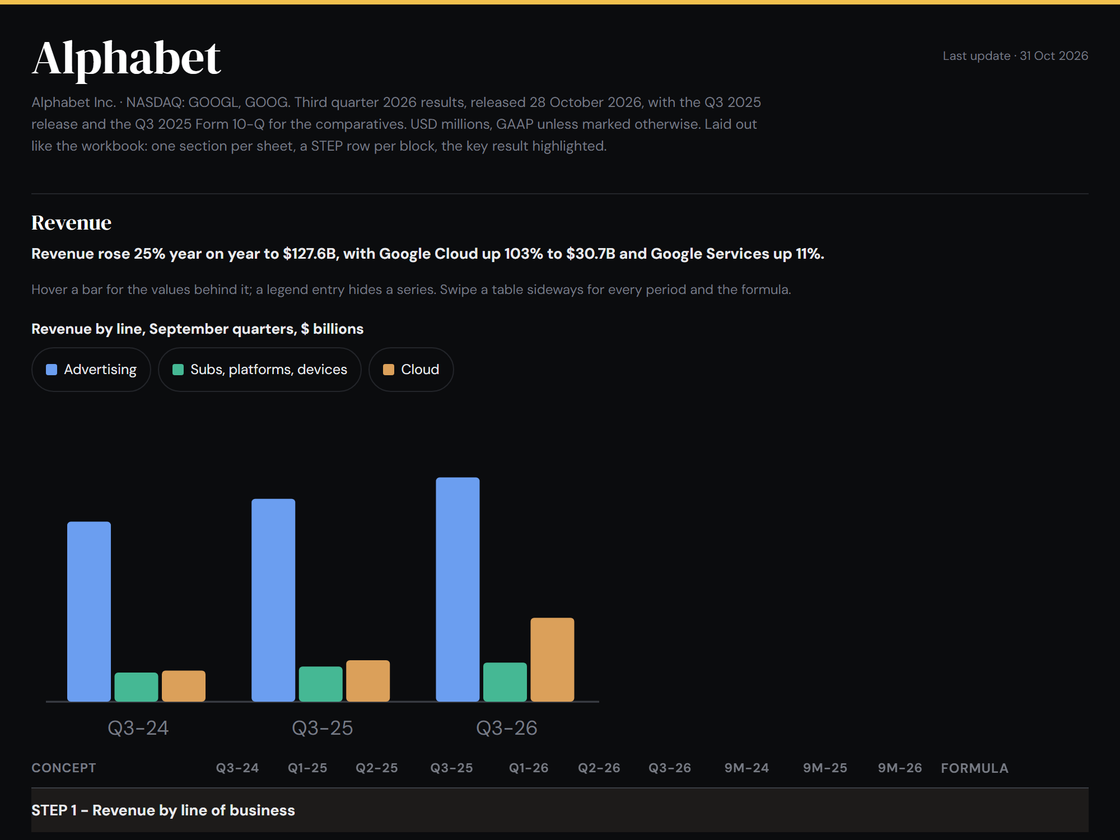
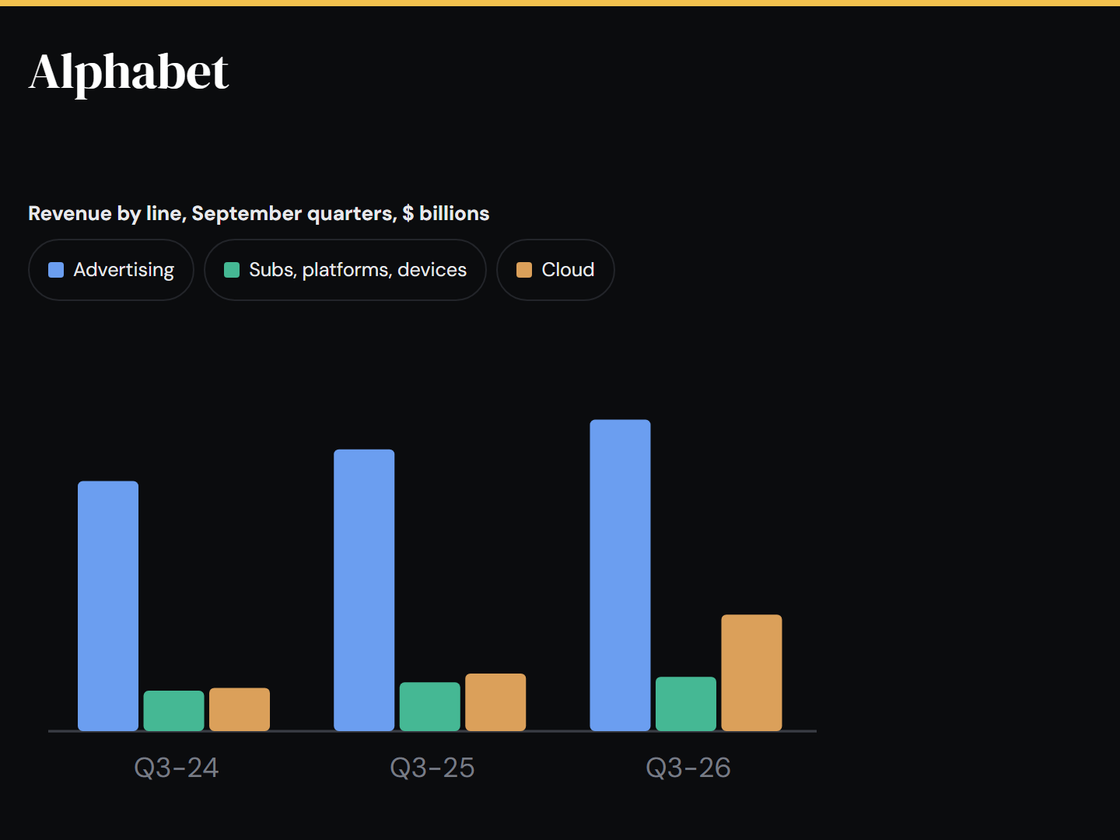
06-11

diff --git a/Alphabet/index.html b/Alphabet/index.html
@@ -49,7 +49,16 @@ a{color:inherit}
 /* "Last update": small and quiet in the top right corner, on the back link's line */
 .band .in{position:relative}
 .updated{position:absolute;top:0;right:max(18px,env(safe-area-inset-right));min-height:44px;
-  display:flex;align-items:center;font-size:11px;color:var(--muted);white-space:nowrap}
+  display:flex;align-items:center;gap:4px;font-size:11px;color:var(--muted);white-space:nowrap}
+/* the two icons after the date: Excel downloads the workbook, GitHub opens the code */
+.ic{display:inline-flex;align-items:center;gap:6px;height:44px;padding:0 8px;border-radius:8px;
+  color:var(--ink2);text-decoration:none;font-size:12px;font-weight:700}
+.ic:first-of-type{margin-left:8px}
+.ic svg{width:20px;height:20px;display:block;flex:none}
+.ic.gh svg{fill:var(--ink2)}
+.ic:hover,.ic:focus-visible{background:var(--hl)}
+.ic:hover,.ic:focus-visible{color:var(--accent)}
+.ic.gh:hover svg,.ic.gh:focus-visible svg{fill:var(--accent)}
 h1{margin:6px 0 2px;color:#fff;font-size:clamp(32px,4.4vw,42px);line-height:1.1}   /* the company name carries the page, and it is what the homepage card preview shows */
 .meta{margin:8px 0 0;font-size:12.5px;color:var(--muted);max-width:78ch}
 
@@ -125,10 +134,12 @@ svg.hov .mk.on{opacity:1}
 .tw{overflow-x:auto;-webkit-overflow-scrolling:touch}
 table{width:100%;border-collapse:collapse;font-size:13.5px;font-variant-numeric:tabular-nums}
 th{text-align:right;font-weight:600;color:var(--muted);font-size:11.5px;text-transform:uppercase;
-  letter-spacing:.04em;border-bottom:1px solid var(--axis);padding:8px;white-space:nowrap}
-td{text-align:right;padding:7px 8px;border-bottom:1px solid var(--grid);white-space:nowrap}
+  letter-spacing:.04em;border-bottom:1px solid var(--axis);padding:9px 16px;white-space:nowrap}
+td{text-align:right;padding:9px 16px;border-bottom:1px solid var(--grid);white-space:nowrap}
+/* a faint line between columns, so each cell reads as its own, as in a spreadsheet */
+td+td,th+th{border-left:1px solid var(--grid)}
 th:first-child,td:first-child{text-align:left;position:sticky;left:0;background:var(--page);padding-left:0}
-td:first-child{white-space:normal;min-width:150px}
+td:first-child{white-space:nowrap;min-width:150px}   /* as in Excel: the column takes its longest label, every row one line */
 tr.b td{font-weight:700;color:#fff}
 tr.sub td{font-weight:700;color:var(--ink2);padding-top:14px;border-bottom:none;background:var(--page)}
 tbody tr:not(.sub):hover td,td.xcol{background:var(--hl)}
@@ -140,7 +151,7 @@ tr.step td{color:var(--ink);background:var(--step);padding-top:9px;padding-botto
 tr.step td{position:static}
 tr.step td>span{position:sticky;left:0;display:inline-block;background:var(--step);padding-right:8px}
 tr.k td{font-weight:700;color:#fff;background:var(--key)}
-th.fx,td.fx{text-align:left;color:var(--muted);font-size:12px;white-space:normal;min-width:160px}
+th.fx,td.fx{text-align:left;color:var(--muted);font-size:12px;white-space:nowrap;min-width:160px}
 td.fx,tr.k td.fx,tr.b td.fx{font-style:italic;font-weight:400;color:var(--muted)}   /* the formula stays quiet, even on a key row */
 .basis{color:var(--muted);font-size:11.5px;font-weight:400}
 
@@ -159,16 +170,20 @@ footer a:hover{color:var(--accent)}
 }
 @media (max-width:640px){
   .two,.gloss{grid-template-columns:1fr;gap:18px}
-  th,td{padding:7px 6px;font-size:12.5px}
+  th,td{padding:8px 10px;font-size:12.5px}
+  /* on a phone the corner (date, Excel, GitHub) takes its own line under the back link, so nothing overlaps */
+  .updated{position:static;margin:-6px 0 0 -8px}
+  .updated .lu{display:inline}
   th{white-space:normal}
-  td:first-child{min-width:120px}
+  /* on a phone the pinned label column may wrap: one-line labels would cover most of a 360px screen */
+  td:first-child{min-width:120px;white-space:normal;max-width:170px}
 }
 
 :root{--accent:#f2c14e}</style>
 </head><body>
 <header class="band"><div class="in">
 <a class="back" href="../index.html">&larr; All companies</a>
-<span class="updated">Last update &middot;&nbsp;<span data-static="1">31 Oct 2026</span></span>
+<span class="updated"><span class="lu">Last update &middot;&nbsp;</span><span data-static="1">31 Oct 2026</span><a class="ic xl" href="alphabet.xlsx" download aria-label="Download the Excel workbook" title="Download the Excel workbook"><svg viewBox="0 0 24 24" aria-hidden="true"><rect x="2" y="2" width="20" height="20" rx="4" fill="#107c41"/><path d="M7.6 7h2.7l1.7 3.1L13.7 7h2.7l-3 5 3.1 5h-2.7l-1.8-3.2-1.8 3.2H7.5l3.1-5z" fill="#fff"/></svg><span>Excel</span></a><a class="ic gh" href="https://github.com/ManuCem/Equity-Research-Lab" aria-label="View the code on GitHub" title="View the code on GitHub"><svg viewBox="0 0 16 16" aria-hidden="true"><path d="M8 0C3.58 0 0 3.58 0 8c0 3.54 2.29 6.53 5.47 7.59.4.07.55-.17.55-.38 0-.19-.01-.82-.01-1.49-2.01.37-2.53-.49-2.69-.94-.09-.23-.48-.94-.82-1.13-.28-.15-.68-.52-.01-.53.63-.01 1.08.58 1.23.82.72 1.21 1.87.87 2.33.66.07-.52.28-.87.51-1.07-1.78-.2-3.64-.89-3.64-3.95 0-.87.31-1.59.82-2.15-.08-.2-.36-1.02.08-2.12 0 0 .67-.21 2.2.82.64-.18 1.32-.27 2-.27.68 0 1.36.09 2 .27 1.53-1.04 2.2-.82 2.2-.82.44 1.1.16 1.92.08 2.12.51.56.82 1.27.82 2.15 0 3.07-1.87 3.75-3.65 3.95.29.25.54.73.54 1.48 0 1.07-.01 1.93-.01 2.2 0 .21.15.46.55.38A8.013 8.013 0 0016 8c0-4.42-3.58-8-8-8z"/></svg><span>GitHub</span></a></span>
 <h1>Alphabet</h1>
 <p class="meta">Alphabet Inc. &middot; NASDAQ: GOOGL, GOOG. Third quarter 2026 results, released <span data-static="1">28 October 2026</span>,
 with the Q3 2025 release and the Q3 2025 Form 10-Q for the comparatives. USD millions, GAAP unless marked otherwise.

diff --git a/SpaceX/index.html b/SpaceX/index.html
@@ -49,7 +49,16 @@ a{color:inherit}
 /* "Last update": small and quiet in the top right corner, on the back link's line */
 .band .in{position:relative}
 .updated{position:absolute;top:0;right:max(18px,env(safe-area-inset-right));min-height:44px;
-  display:flex;align-items:center;font-size:11px;color:var(--muted);white-space:nowrap}
+  display:flex;align-items:center;gap:4px;font-size:11px;color:var(--muted);white-space:nowrap}
+/* the two icons after the date: Excel downloads the workbook, GitHub opens the code */
+.ic{display:inline-flex;align-items:center;gap:6px;height:44px;padding:0 8px;border-radius:8px;
+  color:var(--ink2);text-decoration:none;font-size:12px;font-weight:700}
+.ic:first-of-type{margin-left:8px}
+.ic svg{width:20px;height:20px;display:block;flex:none}
+.ic.gh svg{fill:var(--ink2)}
+.ic:hover,.ic:focus-visible{background:var(--hl)}
+.ic:hover,.ic:focus-visible{color:var(--accent)}
+.ic.gh:hover svg,.ic.gh:focus-visible svg{fill:var(--accent)}
 h1{margin:6px 0 2px;color:#fff;font-size:clamp(32px,4.4vw,42px);line-height:1.1}   /* the company name carries the page, and it is what the homepage card preview shows */
 .meta{margin:8px 0 0;font-size:12.5px;color:var(--muted);max-width:78ch}
 
@@ -125,10 +134,12 @@ svg.hov .mk.on{opacity:1}
 .tw{overflow-x:auto;-webkit-overflow-scrolling:touch}
 table{width:100%;border-collapse:collapse;font-size:13.5px;font-variant-numeric:tabular-nums}
 th{text-align:right;font-weight:600;color:var(--muted);font-size:11.5px;text-transform:uppercase;
-  letter-spacing:.04em;border-bottom:1px solid var(--axis);padding:8px;white-space:nowrap}
-td{text-align:right;padding:7px 8px;border-bottom:1px solid var(--grid);white-space:nowrap}
+  letter-spacing:.04em;border-bottom:1px solid var(--axis);padding:9px 16px;white-space:nowrap}
+td{text-align:right;padding:9px 16px;border-bottom:1px solid var(--grid);white-space:nowrap}
+/* a faint line between columns, so each cell reads as its own, as in a spreadsheet */
+td+td,th+th{border-left:1px solid var(--grid)}
 th:first-child,td:first-child{text-align:left;position:sticky;left:0;background:var(--page);padding-left:0}
-td:first-child{white-space:normal;min-width:150px}
+td:first-child{white-space:nowrap;min-width:150px}   /* as in Excel: the column takes its longest label, every row one line */
 tr.b td{font-weight:700;color:#fff}
 tr.sub td{font-weight:700;color:var(--ink2);padding-top:14px;border-bottom:none;background:var(--page)}
 tbody tr:not(.sub):hover td,td.xcol{background:var(--hl)}
@@ -140,7 +151,7 @@ tr.step td{color:var(--ink);background:var(--step);padding-top:9px;padding-botto
 tr.step td{position:static}
 tr.step td>span{position:sticky;left:0;display:inline-block;background:var(--step);padding-right:8px}
 tr.k td{font-weight:700;color:#fff;background:var(--key)}
-th.fx,td.fx{text-align:left;color:var(--muted);font-size:12px;white-space:normal;min-width:160px}
+th.fx,td.fx{text-align:left;color:var(--muted);font-size:12px;white-space:nowrap;min-width:160px}
 td.fx,tr.k td.fx,tr.b td.fx{font-style:italic;font-weight:400;color:var(--muted)}   /* the formula stays quiet, even on a key row */
 .basis{color:var(--muted);font-size:11.5px;font-weight:400}
 
@@ -159,16 +170,20 @@ footer a:hover{color:var(--accent)}
 }
 @media (max-width:640px){
   .two,.gloss{grid-template-columns:1fr;gap:18px}
-  th,td{padding:7px 6px;font-size:12.5px}
+  th,td{padding:8px 10px;font-size:12.5px}
+  /* on a phone the corner (date, Excel, GitHub) takes its own line under the back link, so nothing overlaps */
+  .updated{position:static;margin:-6px 0 0 -8px}
+  .updated .lu{display:inline}
   th{white-space:normal}
-  td:first-child{min-width:120px}
+  /* on a phone the pinned label column may wrap: one-line labels would cover most of a 360px screen */
+  td:first-child{min-width:120px;white-space:normal;max-width:170px}
 }
 
 :root{--accent:#82b6f8}</style>
 </head><body>
 <header class="band"><div class="in">
 <a class="back" href="../index.html">&larr; All companies</a>
-<span class="updated">Last update &middot;&nbsp;<span data-static="1">28 Oct 2026</span></span>
+<span class="updated"><span class="lu">Last update &middot;&nbsp;</span><span data-static="1">28 Oct 2026</span><a class="ic xl" href="spacex.xlsx" download aria-label="Download the Excel workbook" title="Download the Excel workbook"><svg viewBox="0 0 24 24" aria-hidden="true"><rect x="2" y="2" width="20" height="20" rx="4" fill="#107c41"/><path d="M7.6 7h2.7l1.7 3.1L13.7 7h2.7l-3 5 3.1 5h-2.7l-1.8-3.2-1.8 3.2H7.5l3.1-5z" fill="#fff"/></svg><span>Excel</span></a><a class="ic gh" href="https://github.com/ManuCem/Equity-Research-Lab" aria-label="View the code on GitHub" title="View the code on GitHub"><svg viewBox="0 0 16 16" aria-hidden="true"><path d="M8 0C3.58 0 0 3.58 0 8c0 3.54 2.29 6.53 5.47 7.59.4.07.55-.17.55-.38 0-.19-.01-.82-.01-1.49-2.01.37-2.53-.49-2.69-.94-.09-.23-.48-.94-.82-1.13-.28-.15-.68-.52-.01-.53.63-.01 1.08.58 1.23.82.72 1.21 1.87.87 2.33.66.07-.52.28-.87.51-1.07-1.78-.2-3.64-.89-3.64-3.95 0-.87.31-1.59.82-2.15-.08-.2-.36-1.02.08-2.12 0 0 .67-.21 2.2.82.64-.18 1.32-.27 2-.27.68 0 1.36.09 2 .27 1.53-1.04 2.2-.82 2.2-.82.44 1.1.16 1.92.08 2.12.51.56.82 1.27.82 2.15 0 3.07-1.87 3.75-3.65 3.95.29.25.54.73.54 1.48 0 1.07-.01 1.93-.01 2.2 0 .21.15.46.55.38A8.013 8.013 0 0016 8c0-4.42-3.58-8-8-8z"/></svg><span>GitHub</span></a></span>
 <h1>SpaceX</h1>
 <p class="meta">Space Exploration Technologies Corp. &middot; NASDAQ: SPCX. Form S-1 filed <span data-static="1">20 May 2026</span>, plus the
 Q2-26 and Q3-26 results releases. USD millions, GAAP unless marked non-GAAP. Laid out like the workbook: one section

diff --git a/Anthropic/index.html b/Anthropic/index.html
@@ -49,7 +49,16 @@ a{color:inherit}
 /* "Last update": small and quiet in the top right corner, on the back link's line */
 .band .in{position:relative}
 .updated{position:absolute;top:0;right:max(18px,env(safe-area-inset-right));min-height:44px;
-  display:flex;align-items:center;font-size:11px;color:var(--muted);white-space:nowrap}
+  display:flex;align-items:center;gap:4px;font-size:11px;color:var(--muted);white-space:nowrap}
+/* the two icons after the date: Excel downloads the workbook, GitHub opens the code */
+.ic{display:inline-flex;align-items:center;gap:6px;height:44px;padding:0 8px;border-radius:8px;
+  color:var(--ink2);text-decoration:none;font-size:12px;font-weight:700}
+.ic:first-of-type{margin-left:8px}
+.ic svg{width:20px;height:20px;display:block;flex:none}
+.ic.gh svg{fill:var(--ink2)}
+.ic:hover,.ic:focus-visible{background:var(--hl)}
+.ic:hover,.ic:focus-visible{color:var(--accent)}
+.ic.gh:hover svg,.ic.gh:focus-visible svg{fill:var(--accent)}
 h1{margin:6px 0 2px;color:#fff;font-size:clamp(32px,4.4vw,42px);line-height:1.1}   /* the company name carries the page, and it is what the homepage card preview shows */
 .meta{margin:8px 0 0;font-size:12.5px;color:var(--muted);max-width:78ch}
 
@@ -125,10 +134,12 @@ svg.hov .mk.on{opacity:1}
 .tw{overflow-x:auto;-webkit-overflow-scrolling:touch}
 table{width:100%;border-collapse:collapse;font-size:13.5px;font-variant-numeric:tabular-nums}
 th{text-align:right;font-weight:600;color:var(--muted);font-size:11.5px;text-transform:uppercase;
-  letter-spacing:.04em;border-bottom:1px solid var(--axis);padding:8px;white-space:nowrap}
-td{text-align:right;padding:7px 8px;border-bottom:1px solid var(--grid);white-space:nowrap}
+  letter-spacing:.04em;border-bottom:1px solid var(--axis);padding:9px 16px;white-space:nowrap}
+td{text-align:right;padding:9px 16px;border-bottom:1px solid var(--grid);white-space:nowrap}
+/* a faint line between columns, so each cell reads as its own, as in a spreadsheet */
+td+td,th+th{border-left:1px solid var(--grid)}
 th:first-child,td:first-child{text-align:left;position:sticky;left:0;background:var(--page);padding-left:0}
-td:first-child{white-space:normal;min-width:150px}
+td:first-child{white-space:nowrap;min-width:150px}   /* as in Excel: the column takes its longest label, every row one line */
 tr.b td{font-weight:700;color:#fff}
 tr.sub td{font-weight:700;color:var(--ink2);padding-top:14px;border-bottom:none;background:var(--page)}
 tbody tr:not(.sub):hover td,td.xcol{background:var(--hl)}
@@ -140,7 +151,7 @@ tr.step td{color:var(--ink);background:var(--step);padding-top:9px;padding-botto
 tr.step td{position:static}
 tr.step td>span{position:sticky;left:0;display:inline-block;background:var(--step);padding-right:8px}
 tr.k td{font-weight:700;color:#fff;background:var(--key)}
-th.fx,td.fx{text-align:left;color:var(--muted);font-size:12px;white-space:normal;min-width:160px}
+th.fx,td.fx{text-align:left;color:var(--muted);font-size:12px;white-space:nowrap;min-width:160px}
 td.fx,tr.k td.fx,tr.b td.fx{font-style:italic;font-weight:400;color:var(--muted)}   /* the formula stays quiet, even on a key row */
 .basis{color:var(--muted);font-size:11.5px;font-weight:400}
 
@@ -159,15 +170,19 @@ footer a:hover{color:var(--accent)}
 }
 @media (max-width:640px){
   .two,.gloss{grid-template-columns:1fr;gap:18px}
-  th,td{padding:7px 6px;font-size:12.5px}
+  th,td{padding:8px 10px;font-size:12.5px}
+  /* on a phone the corner (date, Excel, GitHub) takes its own line under the back link, so nothing overlaps */
+  .updated{position:static;margin:-6px 0 0 -8px}
+  .updated .lu{display:inline}
   th{white-space:normal}
-  td:first-child{min-width:120px}
+  /* on a phone the pinned label column may wrap: one-line labels would cover most of a 360px screen */
+  td:first-child{min-width:120px;white-space:normal;max-width:170px}
 }
 :root{--accent:#e59873}</style>
 </head><body>
 <header class="band"><div class="in">
   <a class="back" href="../index.html">&larr; All companies</a>
-<span class="updated">Last update &middot;&nbsp;<span data-static="1">2 Nov 2026</span></span>
+<span class="updated"><span class="lu">Last update &middot;&nbsp;</span><span data-static="1">2 Nov 2026</span><a class="ic xl" href="anthropic.xlsx" download aria-label="Download the Excel workbook" title="Download the Excel workbook"><svg viewBox="0 0 24 24" aria-hidden="true"><rect x="2" y="2" width="20" height="20" rx="4" fill="#107c41"/><path d="M7.6 7h2.7l1.7 3.1L13.7 7h2.7l-3 5 3.1 5h-2.7l-1.8-3.2-1.8 3.2H7.5l3.1-5z" fill="#fff"/></svg><span>Excel</span></a><a class="ic gh" href="https://github.com/ManuCem/Equity-Research-Lab" aria-label="View the code on GitHub" title="View the code on GitHub"><svg viewBox="0 0 16 16" aria-hidden="true"><path d="M8 0C3.58 0 0 3.58 0 8c0 3.54 2.29 6.53 5.47 7.59.4.07.55-.17.55-.38 0-.19-.01-.82-.01-1.49-2.01.37-2.53-.49-2.69-.94-.09-.23-.48-.94-.82-1.13-.28-.15-.68-.52-.01-.53.63-.01 1.08.58 1.23.82.72 1.21 1.87.87 2.33.66.07-.52.28-.87.51-1.07-1.78-.2-3.64-.89-3.64-3.95 0-.87.31-1.59.82-2.15-.08-.2-.36-1.02.08-2.12 0 0 .67-.21 2.2.82.64-.18 1.32-.27 2-.27.68 0 1.36.09 2 .27 1.53-1.04 2.2-.82 2.2-.82.44 1.1.16 1.92.08 2.12.51.56.82 1.27.82 2.15 0 3.07-1.87 3.75-3.65 3.95.29.25.54.73.54 1.48 0 1.07-.01 1.93-.01 2.2 0 .21.15.46.55.38A8.013 8.013 0 0016 8c0-4.42-3.58-8-8-8z"/></svg><span>GitHub</span></a></span>
   <h1>Anthropic</h1>
   <p class="meta">Form S-1/A, Amendment No. 1, filed <span data-static="1">2 Nov 2026</span>. USD millions unless stated.
      Laid out like the workbook: one section per sheet, a STEP row per block, the key result highlighted.</p>

diff --git a/assets/report.css b/assets/report.css
@@ -43,7 +43,16 @@ a{color:inherit}
 /* "Last update": small and quiet in the top right corner, on the back link's line */
 .band .in{position:relative}
 .updated{position:absolute;top:0;right:max(18px,env(safe-area-inset-right));min-height:44px;
-  display:flex;align-items:center;font-size:11px;color:var(--muted);white-space:nowrap}
+  display:flex;align-items:center;gap:4px;font-size:11px;color:var(--muted);white-space:nowrap}
+/* the two icons after the date: Excel downloads the workbook, GitHub opens the code */
+.ic{display:inline-flex;align-items:center;gap:6px;height:44px;padding:0 8px;border-radius:8px;
+  color:var(--ink2);text-decoration:none;font-size:12px;font-weight:700}
+.ic:first-of-type{margin-left:8px}
+.ic svg{width:20px;height:20px;display:block;flex:none}
+.ic.gh svg{fill:var(--ink2)}
+.ic:hover,.ic:focus-visible{background:var(--hl)}
+.ic:hover,.ic:focus-visible{color:var(--accent)}
+.ic.gh:hover svg,.ic.gh:focus-visible svg{fill:var(--accent)}
 h1{margin:6px 0 2px;color:#fff;font-size:clamp(32px,4.4vw,42px);line-height:1.1}   /* the company name carries the page, and it is what the homepage card preview shows */
 .meta{margin:8px 0 0;font-size:12.5px;color:var(--muted);max-width:78ch}
 
@@ -119,10 +128,12 @@ svg.hov .mk.on{opacity:1}
 .tw{overflow-x:auto;-webkit-overflow-scrolling:touch}
 table{width:100%;border-collapse:collapse;font-size:13.5px;font-variant-numeric:tabular-nums}
 th{text-align:right;font-weight:600;color:var(--muted);font-size:11.5px;text-transform:uppercase;
-  letter-spacing:.04em;border-bottom:1px solid var(--axis);padding:8px;white-space:nowrap}
-td{text-align:right;padding:7px 8px;border-bottom:1px solid var(--grid);white-space:nowrap}
+  letter-spacing:.04em;border-bottom:1px solid var(--axis);padding:9px 16px;white-space:nowrap}
+td{text-align:right;padding:9px 16px;border-bottom:1px solid var(--grid);white-space:nowrap}
+/* a faint line between columns, so each cell reads as its own, as in a spreadsheet */
+td+td,th+th{border-left:1px solid var(--grid)}
 th:first-child,td:first-child{text-align:left;position:sticky;left:0;background:var(--page);padding-left:0}
-td:first-child{white-space:normal;min-width:150px}
+td:first-child{white-space:nowrap;min-width:150px}   /* as in Excel: the column takes its longest label, every row one line */
 tr.b td{font-weight:700;color:#fff}
 tr.sub td{font-weight:700;color:var(--ink2);padding-top:14px;border-bottom:none;background:var(--page)}
 tbody tr:not(.sub):hover td,td.xcol{background:var(--hl)}
@@ -134,7 +145,7 @@ tr.step td{color:var(--ink);background:var(--step);padding-top:9px;padding-botto
 tr.step td{position:static}
 tr.step td>span{position:sticky;left:0;display:inline-block;background:var(--step);padding-right:8px}
 tr.k td{font-weight:700;color:#fff;background:var(--key)}
-th.fx,td.fx{text-align:left;color:var(--muted);font-size:12px;white-space:normal;min-width:160px}
+th.fx,td.fx{text-align:left;color:var(--muted);font-size:12px;white-space:nowrap;min-width:160px}
 td.fx,tr.k td.fx,tr.b td.fx{font-style:italic;font-weight:400;color:var(--muted)}   /* the formula stays quiet, even on a key row */
 .basis{color:var(--muted);font-size:11.5px;font-weight:400}
 
@@ -153,7 +164,11 @@ footer a:hover{color:var(--accent)}
 }
 @media (max-width:640px){
   .two,.gloss{grid-template-columns:1fr;gap:18px}
-  th,td{padding:7px 6px;font-size:12.5px}
+  th,td{padding:8px 10px;font-size:12.5px}
+  /* on a phone the corner (date, Excel, GitHub) takes its own line under the back link, so nothing overlaps */
+  .updated{position:static;margin:-6px 0 0 -8px}
+  .updated .lu{display:inline}
   th{white-space:normal}
-  td:first-child{min-width:120px}
+  /* on a phone the pinned label column may wrap: one-line labels would cover most of a 360px screen */
+  td:first-child{min-width:120px;white-space:normal;max-width:170px}
 }

diff --git a/index.html b/index.html
@@ -44,8 +44,8 @@
   .feature { margin-top: -84px; display: grid; grid-template-columns: 1.3fr 1fr; background: var(--surface);
              border: 1px solid var(--line); border-radius: 14px; overflow: hidden; color: inherit; text-decoration: none;
              box-shadow: 0 20px 48px rgba(0,0,0,.12); }
-  .feature .img { position: relative; background: #0b0c0e; min-height: 340px; overflow: hidden; }
-  /* image fills the left half without dictating its height */
+  .feature .img { position: relative; background: #0b0c0e; aspect-ratio: 4 / 3; overflow: hidden; }
+  /* the box has the preview's own 4:3 shape, so the whole chart shows and nothing is cropped */
   .feature .img img { position: absolute; inset: 0; width: 100%; height: 100%; object-fit: cover; object-position: top; display: block; }
   .feature .txt { padding: 36px; display: flex; flex-direction: column; gap: 12px; justify-content: center; }
   .badge { align-self: flex-start; font-size: 12px; font-weight: 700; letter-spacing: .1em; text-transform: uppercase;
@@ -98,7 +98,7 @@
   @media (max-width: 760px) {
     header { padding: 40px 0 96px; }
     .feature { grid-template-columns: 1fr; margin-top: -64px; }
-    .feature .img { min-height: 0; aspect-ratio: 16 / 9; }
+    .feature .img { min-height: 0; aspect-ratio: 4 / 3; }
     .feature .txt { padding: 24px 20px; }
     .feature h2 { font-size: 30px; }
     .card h4 { font-size: 24px; }

diff --git a/tools/make_previews.py b/tools/make_previews.py
@@ -31,8 +31,8 @@ from PIL import Image                     # crops the screenshot
 
 ROOT = Path(__file__).resolve().parent.parent                  # the repo root (this file is in tools/)
 CHROME = Path(r"C:\Program Files\Google\Chrome\Application\chrome.exe")   # Chrome on this machine
-FRAME_W, FRAME_H = 1000, 750              # the frame the page is shown in: 4:3 like the homepage card,
-                                          # wide enough that the first section and its charts fit in it
+FRAME_W, FRAME_H = 720, 540               # the frame the page is shown in: 4:3 like the homepage card,
+                                          # narrow enough that the title and the first chart fill it
 SCALE = 2                                 # shoot at double resolution so the text stays sharp
 OUT_W, OUT_H = 1120, 840                  # the saved image size, the same 4:3 as the frame
 
@@ -80,14 +80,15 @@ def main():
 # ===========================================================================
 
 def wrapper_html(page_uri):
-    """A blank page holding the project page in a 560 x 420 frame, hiding only the back link once it loads."""
+    """A blank page holding the project page in a 720 x 540 frame, showing only the title and the first chart."""
     # returns a str of HTML, e.g. '<!doctype html><html><body style="margin:0;background:#0b0c0e"><iframe src="file:///C:/.../Anthropic/index.html" ...'
     return f"""<!doctype html><html><body style="margin:0;background:#0b0c0e">
 <iframe id="f" src="{page_uri}" style="width:{FRAME_W}px;height:{FRAME_H}px;border:0;display:block"></iframe>
 <script>
 document.getElementById("f").onload = e => {{
   const s = e.target.contentDocument.createElement("style");   // only inside the screenshot: the page file is untouched
-  s.textContent = "a.back{{display:none}} h1{{margin-top:18px}}";
+  // the preview is the title and the first chart: everything else in the header and the first section is hidden
+  s.textContent = "a.back,.updated,.meta,.dl,.hint,.dek,.tw,.panel>h2,.note{{display:none}} h1{{margin-top:18px}} .panel{{border-top:0}}";
   e.target.contentDocument.head.appendChild(s);
 }};
 </script></body></html>"""

diff --git a/CLAUDE.md b/CLAUDE.md
@@ -87,6 +87,14 @@ A new company gets a tone of its own, close to its brand colour, bright enough t
    line (`.updated` in `report.css`). The date is fixed text in a `<span data-static="1">`, set by me
    for each company (the day its data was last updated), not the push date. Change it only when the
    company's data is updated, or when I give a new date.
+   After the date, in the same corner, **two icons** (`.ic`): the **Excel logo** is a direct `download` link
+   to the `.xlsx` (neither browsers nor GitHub preview Excel files), and the **GitHub logo** opens the repo.
+   Each logo has its name written beside it ("Excel", "GitHub"), 44px tall. On a phone (≤640px) the whole
+   corner (date, Excel, GitHub) moves to its own line under the back link, so nothing overlaps.
+   On the homepage the featured card's image box is 4:3, the preview's own shape, so the chart is never cropped.
+   **Tables read like Excel:** labels and formulas stay on one line (`white-space: nowrap`), so each column
+   takes the width of its longest entry and every row is the same height; cells have room around them
+   (`9px 16px`) and a faint line between columns. Only on a phone may the pinned label column wrap.
 2. **Straight into the data.** No key figures, no introduction.
 3. **One flat section per topic**, separated by a hairline, each with:
    1. **A plain section name as the heading** — "Revenue", "Balance sheet", "Operating metrics".
@@ -177,8 +185,8 @@ Written by hand (no script). It follows all the Phone-friendly rules above.
   slightly and the title turns that colour. Keep it inside `@media (hover: hover)` so a tap on a
   phone does not leave a card stuck highlighted.
 - **Preview images** are made with `python tools/make_previews.py`, never by hand: a readable
-  close-up of the top of the page (the company name, the filing line and the start of the first
-  section), 4:3 (1120x840), shown in a 4:3
+  close-up of **the company name and the first chart only** (the screenshot hides the filing line, the
+  corner, the headline and the tables), 4:3 (1120x840), shown in a 4:3
   box with `object-fit: cover; object-position: top center`. The box's background is the company
   pages' black (`#0b0c0e`), so no light edge shows around the image. A shrunk
   screenshot of a whole page is unreadable in a card. Add a new company to `PAGES` in that script.
